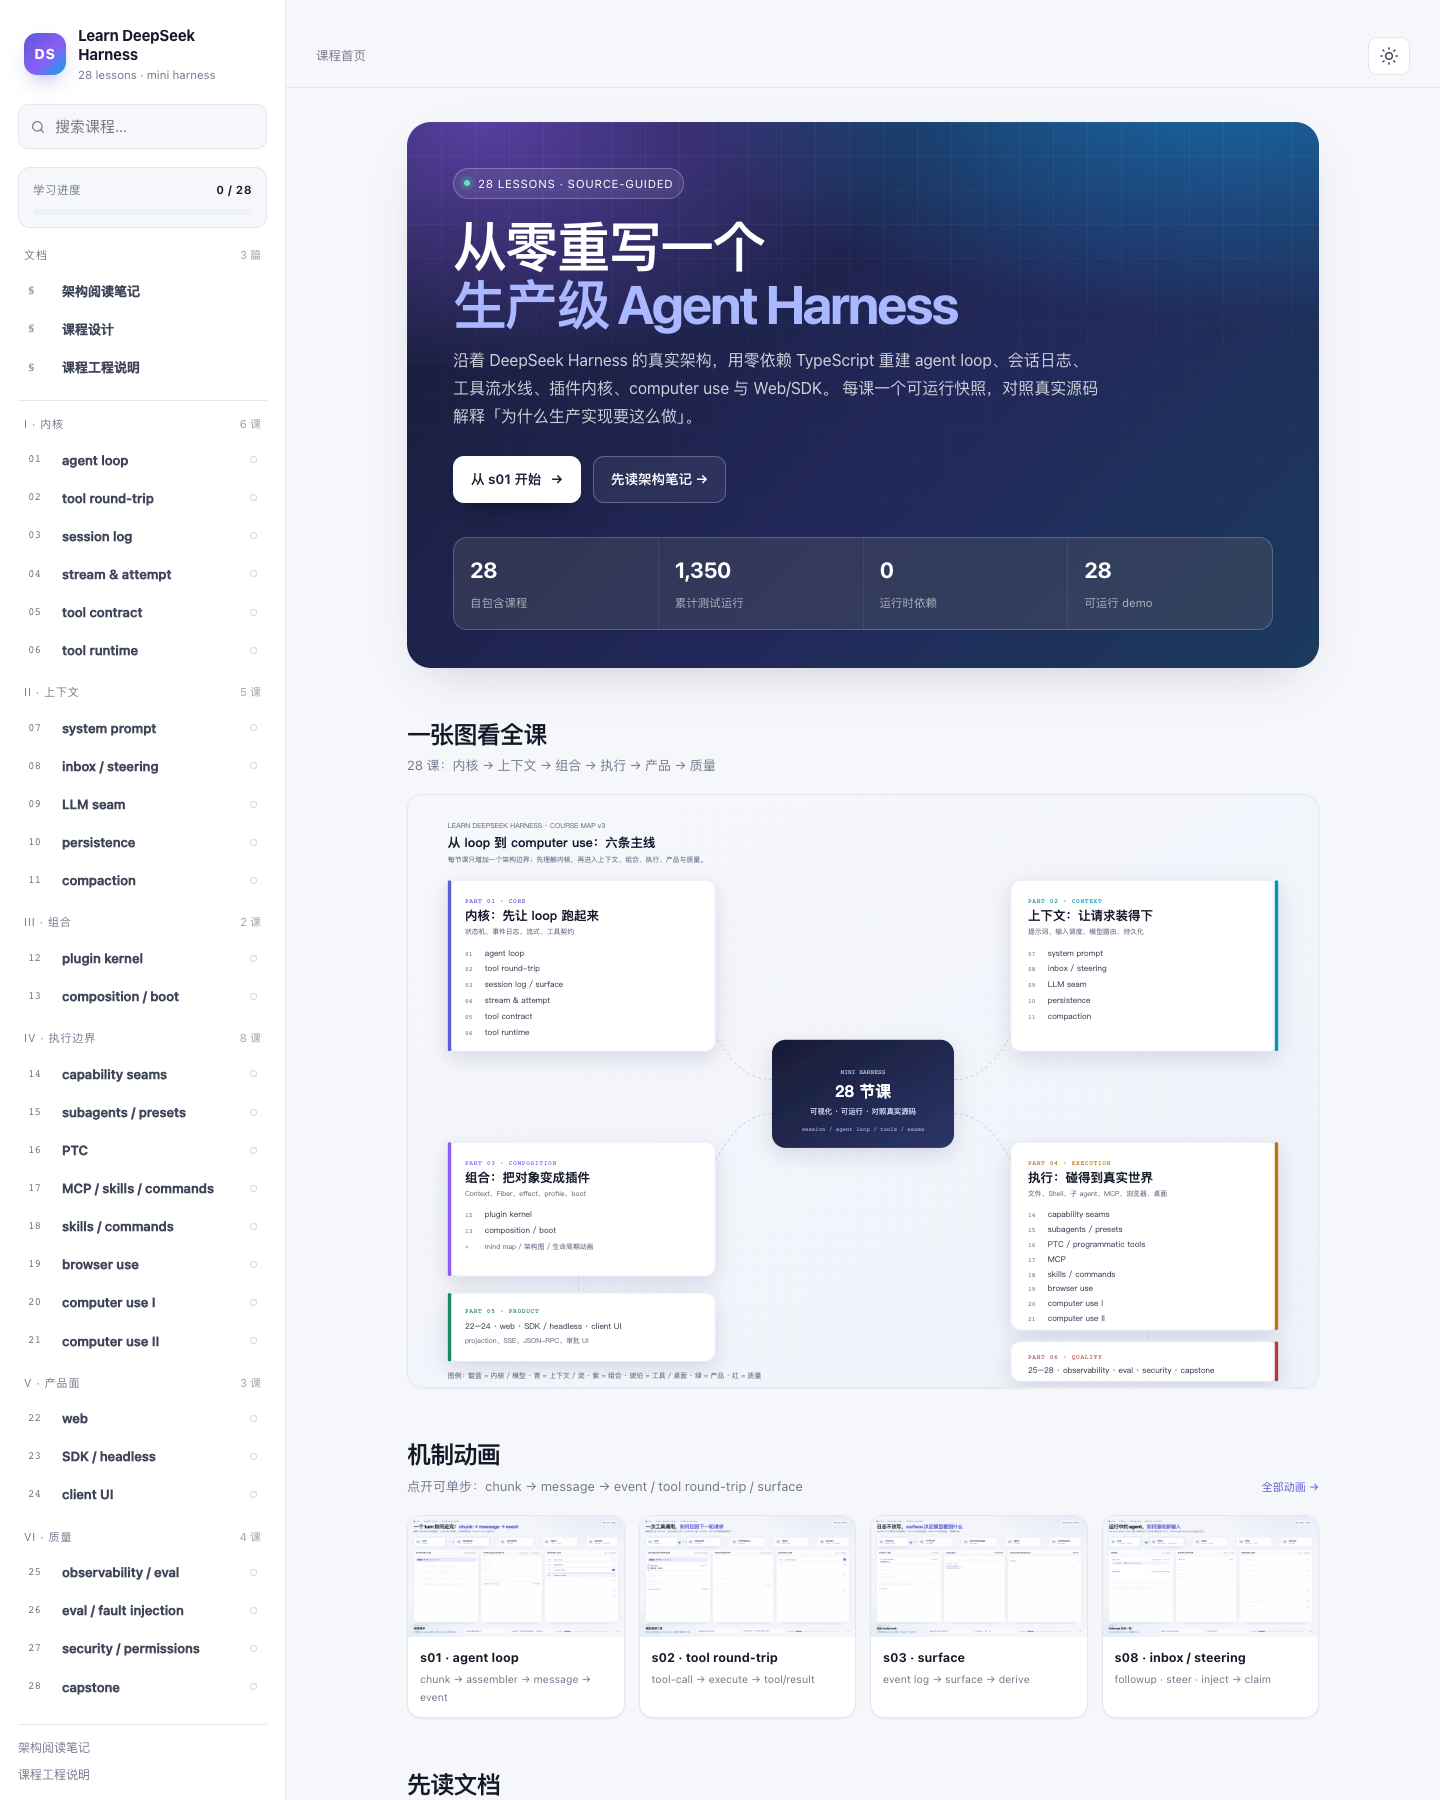
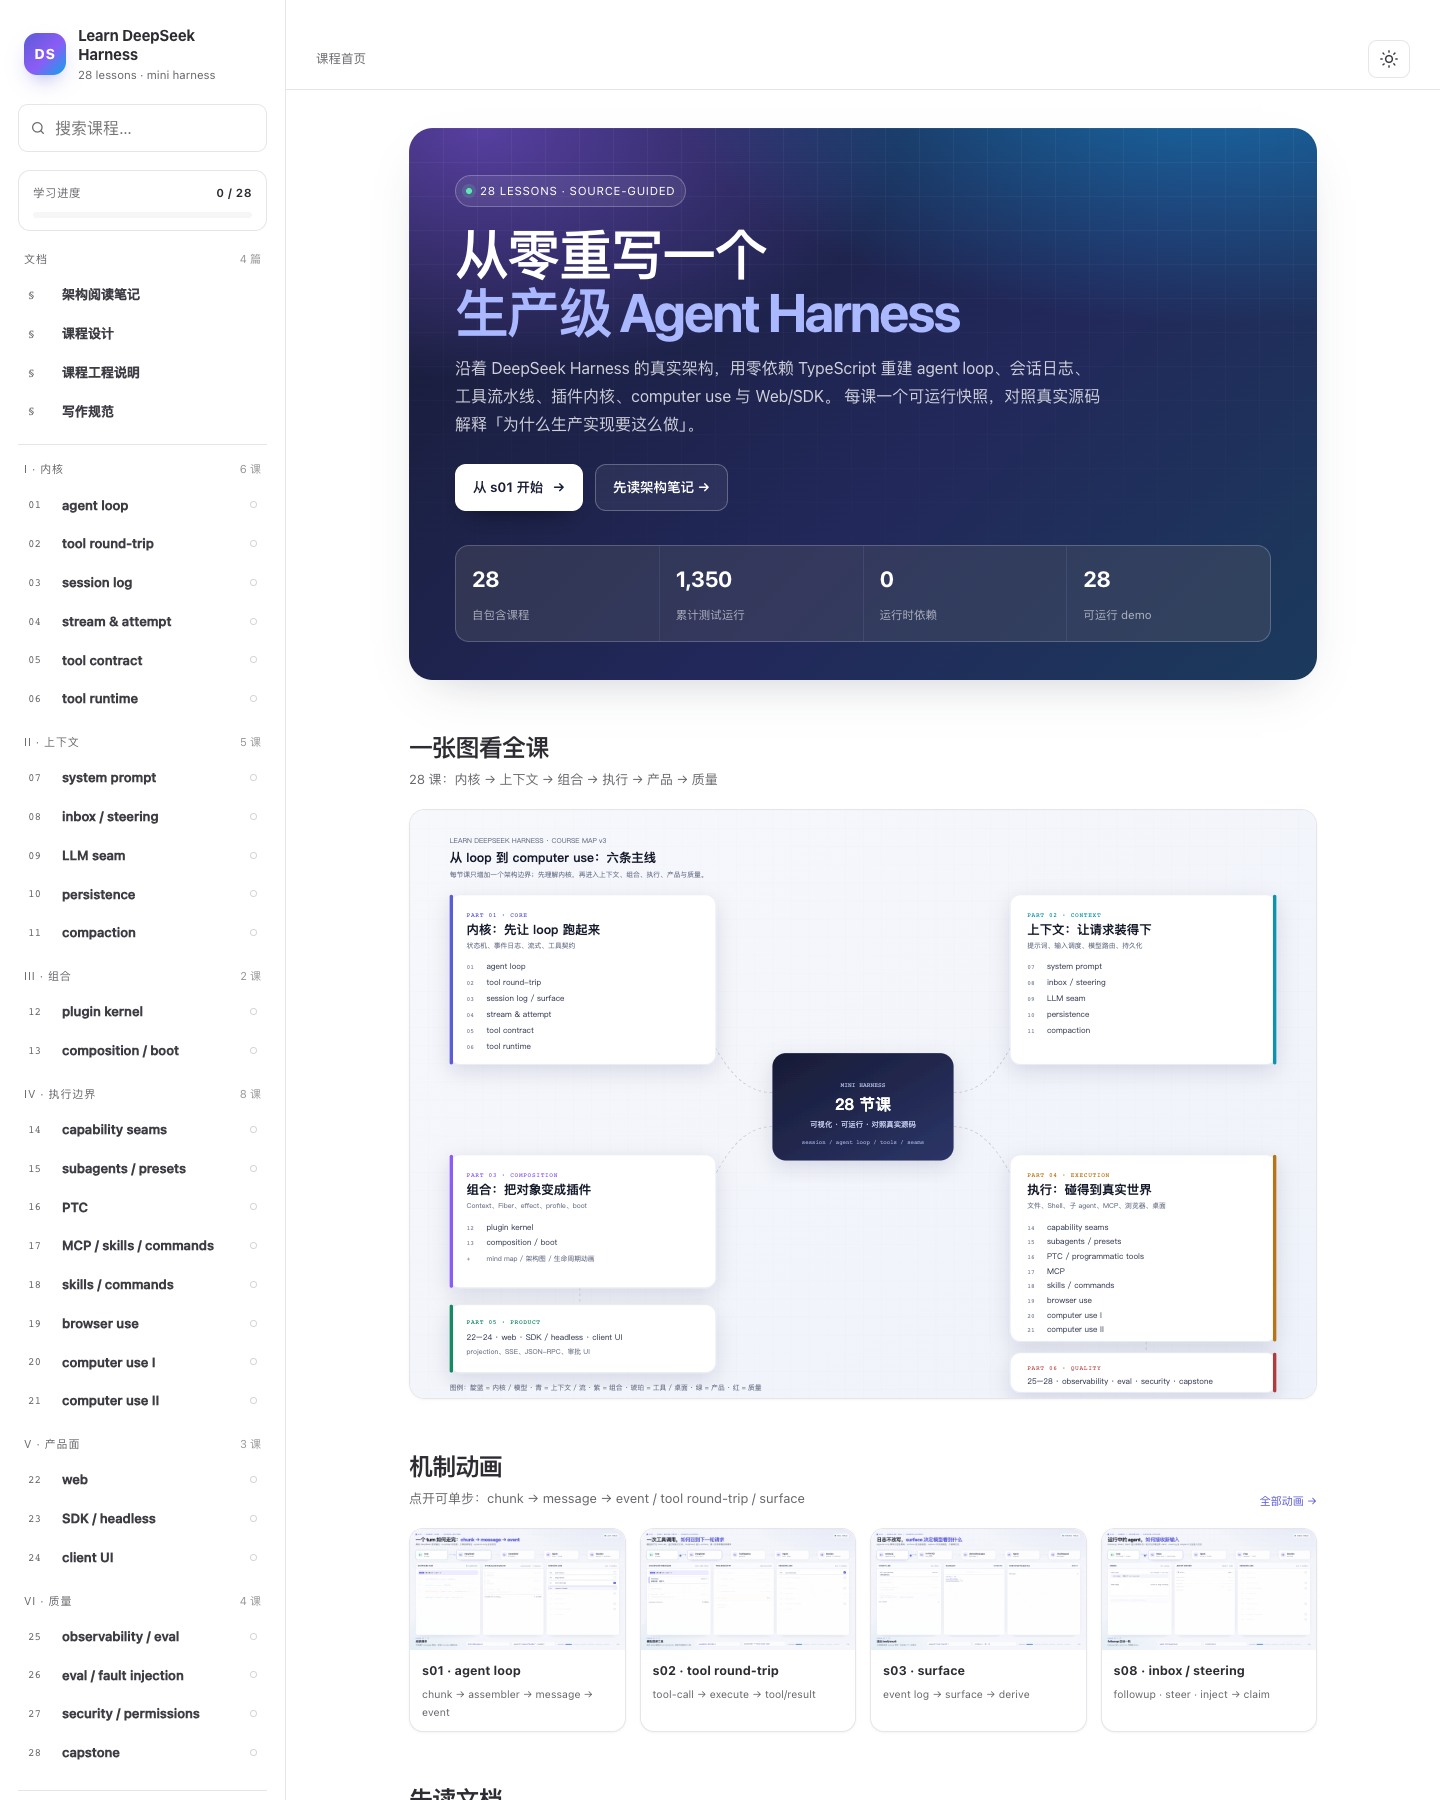
Restyle reading pages with calmer type and light code blocks

diff --git a/site/styles.css b/site/styles.css
@@ -1,46 +1,52 @@
 :root {
-  --bg: #f6f7fb;
+  --bg: #ffffff;
   --bg-elevated: #ffffff;
-  --bg-soft: #eef1f8;
-  --ink: #151827;
-  --ink-soft: #3f4558;
-  --muted: #72788c;
-  --line: #e3e6ef;
-  --line-strong: #d2d7e4;
+  --bg-soft: #f6f6f7;
+  --ink: #2c2c32;
+  --ink-soft: #3c3c43;
+  --muted: #67676c;
+  --line: #e6e6e9;
+  --line-strong: #d5d5da;
   --brand: #5b5bd6;
   --brand-strong: #4343c4;
   --brand-soft: #ecebff;
   --cyan: #0e9bb5;
   --green: #158a63;
   --amber: #b45309;
-  --code-bg: #161a2b;
-  --code-ink: #e9ecff;
+  --code-bg: #f6f7f9;
+  --code-ink: #30343f;
+  --code-head: #f0f1f5;
+  --code-muted: #8a8f9c;
+  --code-border: #e3e5ec;
   --shadow-sm: 0 1px 2px rgba(20, 24, 42, .05);
   --shadow: 0 18px 50px -24px rgba(25, 30, 55, .28);
   --radius: 16px;
   --sidebar: 286px;
   --toc: 240px;
-  --font: "Inter", "SF Pro Text", -apple-system, BlinkMacSystemFont, "Segoe UI", "Noto Sans SC", "PingFang SC", "Microsoft YaHei", sans-serif;
+  --font: -apple-system, BlinkMacSystemFont, "Segoe UI", "Noto Sans SC", "PingFang SC", "Microsoft YaHei", sans-serif;
   --mono: "SFMono-Regular", "JetBrains Mono", "Cascadia Code", Consolas, "Liberation Mono", monospace;
 }
 
 [data-theme="dark"] {
-  --bg: #0c0f1a;
-  --bg-elevated: #121728;
-  --bg-soft: #181e32;
-  --ink: #eef0fa;
-  --ink-soft: #c4c9dd;
-  --muted: #8f96ad;
-  --line: #252c42;
-  --line-strong: #333c56;
+  --bg: #1b1b1f;
+  --bg-elevated: #202127;
+  --bg-soft: #202127;
+  --ink: #dfdfd6;
+  --ink-soft: #c8c8cf;
+  --muted: #98989f;
+  --line: #2e2e32;
+  --line-strong: #3c3f44;
   --brand: #8b8bf5;
   --brand-strong: #a5a5ff;
   --brand-soft: #1e2142;
   --cyan: #4dd6ec;
   --green: #56d6a4;
   --amber: #f2b35d;
-  --code-bg: #080b14;
-  --code-ink: #e4e8ff;
+  --code-bg: #1b1b1f;
+  --code-ink: #dfdfd6;
+  --code-head: #202127;
+  --code-muted: #98989f;
+  --code-border: #2e2e32;
   --shadow: 0 24px 70px -32px rgba(0, 0, 0, .8);
 }
 
@@ -52,8 +58,8 @@ body {
   background: var(--bg);
   color: var(--ink);
   font-family: var(--font);
-  font-size: 15px;
-  line-height: 1.7;
+  font-size: 16px;
+  line-height: 1.75;
   -webkit-font-smoothing: antialiased;
 }
 a { color: var(--brand); text-decoration: none; }
@@ -149,7 +155,7 @@ svg { width: 20px; height: 20px; fill: none; stroke: currentColor; stroke-width:
 [data-theme="dark"] .theme-button .icon-moon { display: block; }
 .ghost-button { font-size: 12.5px; }
 
-.page { max-width: 860px; margin: 0 auto; padding: 34px 34px 100px; }
+.page { max-width: 820px; margin: 0 auto; padding: 38px 36px 110px; }
 .page:focus { outline: none; }
 body.is-home .layout { padding-right: 0; }
 body.is-home .page { max-width: 980px; }
@@ -272,33 +278,33 @@ body.is-home .page { max-width: 980px; }
 .pager.next { text-align: right; }
 
 /* Markdown */
-.markdown { font-size: 15.2px; line-height: 1.82; color: var(--ink-soft); }
+.markdown { font-size: 16px; line-height: 1.78; color: var(--ink-soft); letter-spacing: .002em; }
 .markdown > :first-child { margin-top: 0; }
-.markdown h2 { margin: 42px 0 14px; padding-top: 6px; font-size: 25px; line-height: 1.3; letter-spacing: -.025em; color: var(--ink); }
-.markdown h3 { margin: 30px 0 10px; font-size: 18px; line-height: 1.4; letter-spacing: -.015em; color: var(--ink); }
+.markdown h2 { margin: 46px 0 16px; padding-top: 4px; font-size: 25px; line-height: 1.35; letter-spacing: -.02em; color: var(--ink); font-weight: 640; }
+.markdown h3 { margin: 32px 0 12px; font-size: 19px; line-height: 1.45; letter-spacing: -.012em; color: var(--ink); font-weight: 620; }
 .markdown h4 { margin: 24px 0 8px; font-size: 15.5px; color: var(--ink); }
-.markdown p { margin: 0 0 15px; }
+.markdown p { margin: 0 0 18px; }
 .markdown strong { color: var(--ink); font-weight: 660; }
 .markdown a { text-decoration: underline; text-decoration-color: color-mix(in srgb, var(--brand) 30%, transparent); text-underline-offset: 3px; }
 .markdown a:hover { text-decoration-color: var(--brand); }
 .markdown ul, .markdown ol { margin: 0 0 16px; padding-left: 24px; }
-.markdown li { margin: 4px 0; }
+.markdown li { margin: 6px 0; }
 .markdown li > p { margin: 0 0 6px; }
-.markdown blockquote { margin: 20px 0; padding: 13px 18px; border-left: 3px solid var(--brand); background: var(--brand-soft); border-radius: 0 10px 10px 0; color: var(--ink-soft); }
+.markdown blockquote { margin: 24px 0; padding: 14px 18px; border-left: 3px solid color-mix(in srgb, var(--brand) 55%, var(--line)); background: #f7f7fb; border-radius: 0 10px 10px 0; color: var(--ink-soft); }
 .markdown blockquote p:last-child { margin-bottom: 0; }
 .markdown hr { border: 0; border-top: 1px solid var(--line); margin: 34px 0; }
 .markdown img { display: block; max-width: 100%; height: auto; margin: 18px auto; border: 1px solid var(--line); border-radius: 10px; box-shadow: var(--shadow-sm); }
 
-.markdown code { font-family: var(--mono); font-size: .86em; background: var(--bg-soft); border: 1px solid var(--line); padding: 1px 5px; border-radius: 5px; color: var(--ink); }
-.markdown pre { margin: 0; overflow: auto; padding: 18px 20px; background: var(--code-bg); color: var(--code-ink); font-size: 12.5px; line-height: 1.7; }
+.markdown code { font-family: var(--mono); font-size: .84em; background: #f3f4f7; border: 1px solid #ebecf1; padding: 1px 5px; border-radius: 5px; color: #30343f; }
+.markdown pre { margin: 0; overflow: auto; padding: 20px 22px; background: var(--code-bg); color: var(--code-ink); font-size: 13.5px; line-height: 1.78; white-space: pre-wrap; overflow-wrap: anywhere; tab-size: 2; }
 .markdown pre code { background: transparent; border: 0; padding: 0; color: inherit; font-size: inherit; }
-.code-card { position: relative; margin: 18px 0; border-radius: 12px; overflow: hidden; border: 1px solid color-mix(in srgb, var(--code-bg) 65%, var(--line)); box-shadow: var(--shadow-sm); }
-.code-head { display: flex; justify-content: space-between; align-items: center; padding: 8px 13px; background: color-mix(in srgb, var(--code-bg) 82%, #fff 6%); color: #9aa4c8; font-family: var(--mono); font-size: 10.5px; letter-spacing: .06em; text-transform: uppercase; border-bottom: 1px solid rgba(255,255,255,.06); }
-.copy-button { border: 1px solid rgba(255,255,255,.14); background: transparent; color: #b9c2e0; border-radius: 6px; padding: 3px 7px; font-family: var(--font); font-size: 10.5px; text-transform: none; }
-.copy-button:hover { background: rgba(255,255,255,.08); color: #fff; }
+.code-card { position: relative; margin: 22px 0; border-radius: 11px; overflow: hidden; border: 1px solid var(--code-border); box-shadow: none; background: var(--code-bg); }
+.code-head { display: flex; justify-content: space-between; align-items: center; padding: 9px 14px; background: var(--code-head); color: var(--code-muted); font-family: var(--mono); font-size: 11px; letter-spacing: .02em; border-bottom: 1px solid var(--code-border); }
+.copy-button { border: 1px solid var(--code-border); background: transparent; color: var(--code-muted); border-radius: 6px; padding: 3px 7px; font-family: var(--font); font-size: 10.5px; text-transform: none; }
+.copy-button:hover { background: #fff; color: var(--ink-soft); }
 .table-wrap { margin: 18px 0; overflow-x: auto; border: 1px solid var(--line); border-radius: 11px; }
-.markdown table { width: 100%; border-collapse: collapse; font-size: 13px; background: var(--bg-elevated); }
-.markdown th, .markdown td { padding: 9px 12px; text-align: left; vertical-align: top; border-bottom: 1px solid var(--line); }
+.markdown table { width: 100%; border-collapse: collapse; font-size: 13.5px; background: var(--bg-elevated); }
+.markdown th, .markdown td { padding: 10px 13px; text-align: left; vertical-align: top; border-bottom: 1px solid var(--line); }
 .markdown th { background: var(--bg); color: var(--ink); font-weight: 620; white-space: nowrap; }
 .markdown tr:last-child td { border-bottom: 0; }
 .markdown td code { white-space: nowrap; }
@@ -308,7 +314,7 @@ body.is-home .page { max-width: 980px; }
 
 @media (max-width: 1180px) {
   .toc { display: none; }
-  .page { max-width: 860px; }
+  .page { max-width: 820px; }
 }
 @media (max-width: 900px) {
   .sidebar { transform: translateX(-100%); transition: transform .22s ease; box-shadow: var(--shadow); }
@@ -356,3 +362,17 @@ body.is-home .page { max-width: 980px; }
 .visual-card small { color: var(--muted); font-size: 10.5px; }
 .section-link { align-self: end; color: var(--brand); font-size: 11px; text-decoration: none; white-space: nowrap; }
 .section-link:hover { text-decoration: underline; }
+[data-theme="dark"] .markdown code { background:#2a2a2f; border-color:#3c3f44; color:#dfdfd6; }
+[data-theme="dark"] .markdown blockquote { background:#202127; }
+[data-theme="dark"] .copy-button:hover { background:#2a2a2f; color:#dfdfd6; }
+[data-theme="dark"] .markdown pre { color:#dfdfd6; }
+.tok-comment { color:#8a8f9c; font-style:italic; }
+.tok-string { color:#2f7a58; }
+.tok-keyword { color:#6b4fbb; }
+.tok-number { color:#a15c1f; }
+.tok-key { color:#2f6f9f; }
+[data-theme="dark"] .tok-comment { color:#7d8492; }
+[data-theme="dark"] .tok-string { color:#9ed3b0; }
+[data-theme="dark"] .tok-keyword { color:#c3b4ff; }
+[data-theme="dark"] .tok-number { color:#e2b07a; }
+[data-theme="dark"] .tok-key { color:#9cc8ee; }

diff --git a/site/app.js b/site/app.js
@@ -78,6 +78,45 @@
   /* Markdown                                                           */
   /* ------------------------------------------------------------------ */
 
+  function highlightCode(code, lang) {
+    const l = String(lang).toLowerCase();
+    let re;
+    if (l === 'json') {
+      re = /("(?:\\.|[^"\\])*")(?=\s*:)|("(?:\\.|[^"\\])*")|(-?\b\d+(?:\.\d+)?(?:[eE][+-]?\d+)?\b)|\b(true|false|null)\b/g;
+    } else if (['ts','js','javascript','typescript','tsx','jsx'].includes(l)) {
+      re = /(\/\/[^\n]*|\/\*[\s\S]*?\*\/)|('(?:\\.|[^'\\])*'|"(?:\\.|[^"\\])*"|`(?:\\.|[^`\\])*`)|\b(const|let|var|function|async|await|return|if|else|for|of|in|new|class|extends|implements|interface|type|import|from|export|throw|try|catch|finally|switch|case|break|continue|true|false|null|undefined|this|super|readonly|public|private)\b|\b(\d+(?:\.\d+)?)\b/g;
+    } else if (l === 'bash' || l === 'sh' || l === 'shell') {
+      re = /(#[^\n]*)|('(?:\\.|[^'\\])*'|"(?:\\.|[^"\\])*")|\b(echo|node|npm|pnpm|cd|cp|mv|git|test|curl)\b/g;
+    } else return escapeHtml(code);
+    let out = '';
+    let last = 0;
+    code.replace(re, (...args) => {
+      const match = args[0];
+      const offset = args[args.length - 2];
+      out += escapeHtml(code.slice(last, offset));
+      let cls = 'tok-keyword';
+      if (l === 'json') {
+        if (args[1] !== undefined) cls = 'tok-key';
+        else if (args[2] !== undefined) cls = 'tok-string';
+        else if (args[3] !== undefined) cls = 'tok-number';
+        else cls = 'tok-keyword';
+      } else if (l === 'bash' || l === 'sh' || l === 'shell') {
+        if (args[1] !== undefined) cls = 'tok-comment';
+        else if (args[2] !== undefined) cls = 'tok-string';
+        else cls = 'tok-keyword';
+      } else {
+        if (args[1] !== undefined) cls = 'tok-comment';
+        else if (args[2] !== undefined) cls = 'tok-string';
+        else if (args[4] !== undefined) cls = 'tok-number';
+      }
+      out += `<span class="${cls}">${escapeHtml(match)}</span>`;
+      last = offset + match.length;
+      return match;
+    });
+    out += escapeHtml(code.slice(last));
+    return out;
+  }
+
   function slugify(text) {
     return text.toLowerCase()
       .replace(/<[^>]+>/g, '')
@@ -243,7 +282,7 @@
         while (i < lines.length && !/^```/.test(lines[i])) { code.push(lines[i]); i += 1; }
         i += 1;
         const id = `code-${usedIds.size}-${Math.random().toString(36).slice(2, 7)}`;
-        html.push(`<div class="code-card"><div class="code-head"><span>${escapeHtml(lang)}</span><button class="copy-button" data-copy="${id}">复制</button></div><pre id="${id}"><code class="language-${escapeHtml(lang)}">${escapeHtml(code.join('\n'))}</code></pre></div>`);
+        html.push(`<div class="code-card"><div class="code-head"><span>${escapeHtml(lang)}</span><button class="copy-button" data-copy="${id}">复制</button></div><pre id="${id}"><code class="language-${escapeHtml(lang)}">${highlightCode(code.join('\n'), lang)}</code></pre></div>`);
         continue;
       }
       if (/^#{1,6}\s+/.test(line)) {

diff --git a/course/lessons/s11-compaction/README.md b/course/lessons/s11-compaction/README.md
@@ -48,14 +48,18 @@
 真正改变模型看到的，不是 `delete`，而是这个 `append` 上的 `surfaceOp`：
 
 ```ts
-session.append('user/message', { message: summaryMessage }, {
-  surfaceOp: {
-    op: 'replace',
-    startSeq: old[0]!.seq,
-    endSeq: old[old.length - 1]!.seq,
+session.append(
+  'user/message',
+  { message: summaryMessage },
+  {
+    surfaceOp: {
+      op: 'replace',
+      startSeq: old[0]!.seq,
+      endSeq: old[old.length - 1]!.seq,
+    },
+    sourceEventSeqs: old.map(node => node.seq),
   },
-  sourceEventSeqs: old.map(node => node.seq),
-})
+)
 ```
 
 *为什么读这里：`sourceEventSeqs` 把“这段摘要是从哪些旧事件来的”钉在日志里。没有它，回放时就说不清摘要凭什么替换了旧 surface。*

diff --git a/course/lessons/s02-tool-round-trip/README.md b/course/lessons/s02-tool-round-trip/README.md
@@ -52,8 +52,19 @@
 
 ```ts
 for (const call of calls) {
-  this.session.append('tool/call', { turn, step, callId: call.id, name: call.name, arguments: call.arguments })
-  const result = await this.#tools.execute(call, { signal, callId: call.id, sessionId: this.session.id })
+  this.session.append('tool/call', {
+    turn, step,
+    callId: call.id,
+    name: call.name,
+    arguments: call.arguments,
+  })
+
+  const result = await this.#tools.execute(call, {
+    signal,
+    callId: call.id,
+    sessionId: this.session.id,
+  })
+
   const message = createMessage({
     role: 'tool',
     toolCallId: call.id,
